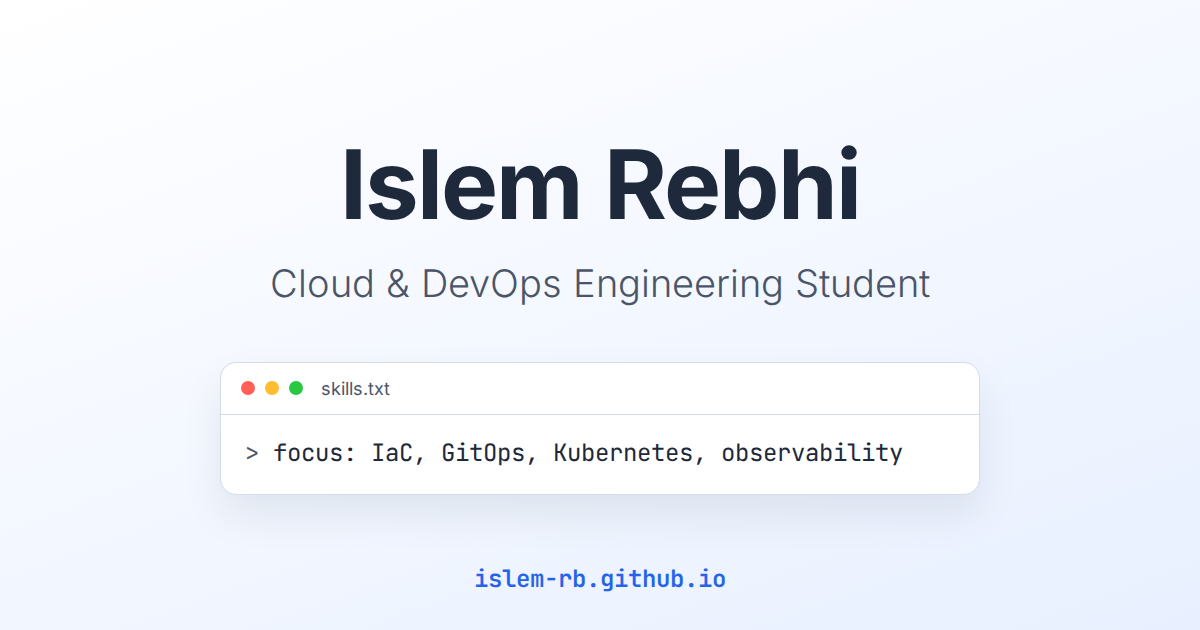
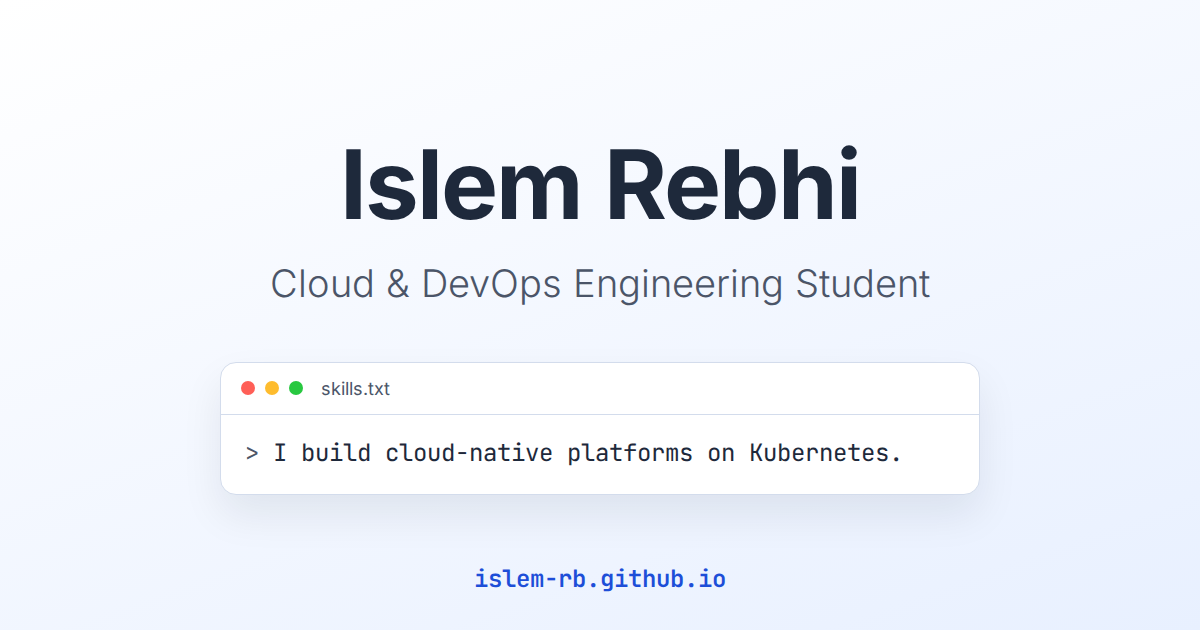
Polish: availability line, JSON-LD, OG refresh, Lighthouse fixes
Adds the "Available for PFE internships" line under the tagline, a Person
JSON-LD block on both home pages, and regenerates og.png with the darker
accent and the first tagline sentence. Lighthouse fixes: 24x24 side-dot
targets and an always-underlined email link in running text.

Changed region(s): [[0.2158, 0.6937, 0.74, 0.754]]

diff --git a/scripts/og-template.html b/scripts/og-template.html
@@ -22,7 +22,7 @@
         --muted: #4b5568;
         --line: #d3dcec;
         --surface: #ffffff;
-        --accent: #2563eb;
+        --accent: #1d4ed8;
       }
       * { margin: 0; box-sizing: border-box; }
       body {
@@ -68,7 +68,7 @@
         <span class="dot" style="background:#28c840"></span>
         <span class="file">skills.txt</span>
       </div>
-      <p class="line"><span>&gt;</span> focus: IaC, GitOps, Kubernetes, observability</p>
+      <p class="line"><span>&gt;</span> I build cloud-native platforms on Kubernetes.</p>
     </div>
     <p class="url">islem-rb.github.io</p>
   </body>
